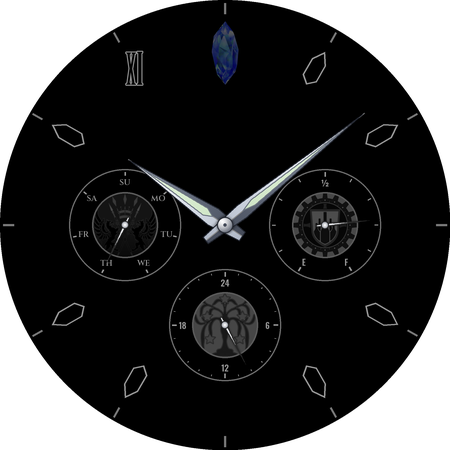
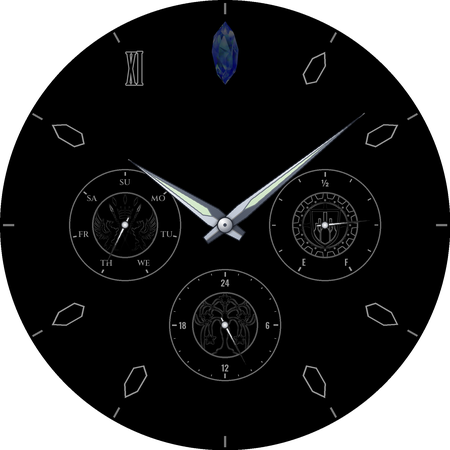
Watch face: add a Dark style option; line-art crests
- New user setting (Customize > Style): Classic or Dark. Dark is the
  outline 'dark chronograph' look as an everyday face, with an outlined
  date window; Classic keeps the realistic dial and glass layer.
- Outline styles draw the crests as colour-edge line art, so San d'Oria's
  black griffins on red are now readable (greyscale lost them).

Claude-Session: https://claude.ai/code/session_01DhcV9kAg7FMXufVfZQP7Ta

Changed region(s): [[0.6533, 0.4356, 0.8089, 0.5911], [0.4044, 0.6533, 0.5911, 0.8089], [0.2489, 0.4356, 0.3111, 0.4978]]

diff --git a/ffxi-watchface/tools/generate_assets.py b/ffxi-watchface/tools/generate_assets.py
@@ -250,12 +250,12 @@ def place_marker(img, deg):
     img.alpha_composite(layer)
 
 
-def place_crystal(img, ambient):
+def place_crystal(img, ambient, bright=1.0):
     """The big blue crystal at 12, from tools/emblems/crystal.png (background already cut out)."""
     cr = load_crystal(s(CRYSTAL_R[1] - CRYSTAL_R[0]))
     if ambient:   # dim it so always-on stays mostly dark
         r, g, b, a = cr.split()
-        cr = Image.merge('RGBA', [ch.point(lambda v: int(v * 0.35)) for ch in (r, g, b)] + [a])
+        cr = Image.merge('RGBA', [ch.point(lambda v: int(v * 0.6 * bright)) for ch in (r, g, b)] + [a])
     layer = Image.new('RGBA', img.size, (0, 0, 0, 0))
     layer.paste(cr, (round(C - cr.width / 2), round(C - s(CRYSTAL_R[1]))))
     if not ambient:
@@ -272,12 +272,22 @@ def sub_centers():
     }
 
 
-def draw_emblem(img, key, cx, cy, ambient):
+def emblem_lines(em, bright=1.0):
+    """Colour-edge line art of a crest (works where greyscale fails, e.g. black griffins on red)."""
+    size = em.size
+    a = np.asarray(em.resize((256, 256), Image.LANCZOS).filter(ImageFilter.GaussianBlur(1.2))).astype(float)
+    gy = np.abs(np.diff(a, axis=0, prepend=a[:1])).sum(-1)
+    gx = np.abs(np.diff(a, axis=1, prepend=a[:, :1])).sum(-1)
+    e = np.clip((gx + gy - 40) * 1.6, 0, 210) * bright
+    return Image.fromarray(e.astype(np.uint8)).resize(size, Image.LANCZOS).convert('RGB')
+
+
+def draw_emblem(img, key, cx, cy, ambient, bright=1.0):
     """Nation crest in a round medallion at the sub-dial centre."""
     r = s(EMBLEM_R)
     em = Image.open(os.path.join(EMBLEMS, key + '.png')).convert('RGB').resize((2 * r, 2 * r), Image.LANCZOS)
-    if ambient:   # dim greyscale so always-on stays mostly dark
-        em = em.convert('L').point(lambda v: int(v * 0.3)).convert('RGB')
+    if ambient:   # engraved line art: readable on black and keeps few pixels lit
+        em = emblem_lines(em, bright)
     img.paste(em, (int(cx - r), int(cy - r)), circle_mask((2 * r, 2 * r), r, r, r))
     if ambient:
         ImageDraw.Draw(img).ellipse([cx - r, cy - r, cx + r, cy + r], outline=(90, 90, 90), width=round(s(1.4)))
@@ -287,7 +297,7 @@ def draw_emblem(img, key, cx, cy, ambient):
     metal_ring(img, cx, cy, r + s(1.8), r - s(0.2), (120, 84, 24), (255, 230, 150))
 
 
-def draw_subdial(img, key, ambient=False):
+def draw_subdial(img, key, ambient=False, bright=1.0):
     cx, cy = (s(v) for v in sub_centers()[key])
     R = s(SUB_R)
     d = ImageDraw.Draw(img)
@@ -305,7 +315,7 @@ def draw_subdial(img, key, ambient=False):
         metal_ring(img, cx, cy, R + s(2.4), R, (70, 76, 88), (238, 242, 248), recessed=True)
     else:
         d.ellipse([cx - R, cy - R, cx + R, cy + R], outline=(110, 110, 110), width=round(s(1.2)))
-    draw_emblem(img, key, cx, cy, ambient)
+    draw_emblem(img, key, cx, cy, ambient, bright)
     d = ImageDraw.Draw(img)
 
     small = font(FONT_LABEL, 8)
@@ -349,7 +359,9 @@ def sunburst(size):
     return Image.fromarray(out.astype(np.uint8), 'RGB').convert('RGBA')
 
 
-def make_dial(ambient=False):
+def make_dial(ambient=False, bright=0.6):
+    """ambient=False: classic dial. ambient=True: outline dial; bright=1 is the
+    Dark style (active), bright=0.6 the always-on version of both styles."""
     size = (s(N), s(N))
     if ambient:
         img = Image.new('RGBA', size, (0, 0, 0, 255))
@@ -381,7 +393,7 @@ def make_dial(ambient=False):
         glow = Image.new('RGBA', size, (0, 0, 0, 0))
         ImageDraw.Draw(glow).ellipse([C - s(24), C - s(208), C + s(24), C - s(136)], fill=(60, 110, 255, 150))
         img.alpha_composite(glow.filter(ImageFilter.GaussianBlur(s(9))))
-    place_crystal(img, ambient)
+    place_crystal(img, ambient, bright)
     d = ImageDraw.Draw(img)
 
     pos = polar(s(180), 330)
@@ -396,9 +408,14 @@ def make_dial(ambient=False):
         text_c(d, (C, C - s(85)), 'CHRONOGRAPH', font(FONT_LABEL, 6.5), (170, 178, 192))
 
     for key in NATIONS:
-        draw_subdial(img, key, ambient)
+        draw_subdial(img, key, ambient, bright)
 
     # date window frame (number drawn live by the watch face)
+    if ambient and bright >= 1:
+        x, y = s(DATE_POS[0]), s(DATE_POS[1])
+        w, h = s(DATE_SIZE[0]), s(DATE_SIZE[1])
+        ImageDraw.Draw(img).rounded_rectangle([x - w / 2, y - h / 2, x + w / 2, y + h / 2], radius=s(3),
+                                              outline=(150, 150, 150), width=round(s(1.2)))
     if not ambient:
         x, y = s(DATE_POS[0]), s(DATE_POS[1])
         w, h = s(DATE_SIZE[0]), s(DATE_SIZE[1])
@@ -559,20 +576,21 @@ def place(canvas, hand, name, cx, cy, deg):
     canvas.alpha_composite(layer.rotate(-deg, center=(s(cx), s(cy)), resample=Image.BICUBIC))
 
 
-def preview(dial_hi, hands_hi, cap_hi, glass_hi, hh=10, mm=8, ss=32, dow=5, day=29, batt=78, ambient=False):
+def preview(dial_hi, hands_hi, cap_hi, glass_hi, hh=10, mm=8, ss=32, dow=5, day=29, batt=78, ambient=False, dark=False):
     img = dial_hi.copy()
     sub = hands_hi['hand_sub']
     centers = sub_centers()
     place(img, sub, 'hand_sub', *centers['sandoria'], (dow - 1) * 360 / 7)
     place(img, sub, 'hand_sub', *centers['bastok'], -150 + batt * 3)
     place(img, sub, 'hand_sub', *centers['windurst'], (hh + mm / 60) * 15)
-    if not ambient:
+    if not ambient or dark:
         d = ImageDraw.Draw(img)
-        text_c(d, (s(DATE_POS[0]), s(DATE_POS[1])), str(day), font(FONT_SERIF, 15), (20, 20, 20))
+        text_c(d, (s(DATE_POS[0]), s(DATE_POS[1])), str(day), font(FONT_SERIF, 15),
+               (190, 190, 190) if dark else (20, 20, 20))
     place(img, hands_hi['hand_hour'], 'hand_hour', 225, 225, (hh % 12 + mm / 60) * 30)
     place(img, hands_hi['hand_minute'], 'hand_minute', 225, 225, mm * 6 + ss / 10)
     img.alpha_composite(cap_hi, (round(C - cap_hi.width / 2), round(C - cap_hi.height / 2)))
-    if not ambient:
+    if not ambient and not dark:
         img.alpha_composite(glass_hi)
     return finish(img)
 
@@ -581,8 +599,10 @@ def main():
     os.makedirs(OUT, exist_ok=True)
     dial_hi = make_dial()
     amb_hi = make_dial(ambient=True)
+    dark_hi = make_dial(ambient=True, bright=1.0)
     finish(dial_hi).save(os.path.join(OUT, 'dial.png'))
     finish(amb_hi).save(os.path.join(OUT, 'dial_ambient.png'))
+    finish(dark_hi).save(os.path.join(OUT, 'dial_dark.png'))
     hands_hi = {}
     for name, (build, *_rest) in HANDS.items():
         hands_hi[name] = build()
@@ -598,6 +618,8 @@ def main():
     os.makedirs(docs, exist_ok=True)
     active.save(os.path.join(docs, 'preview_active.png'))
     preview(amb_hi, hands_hi, cap_hi, glass_hi, ambient=True).save(os.path.join(docs, 'preview_ambient.png'))
+    dark = preview(dark_hi, hands_hi, cap_hi, glass_hi, ambient=True, dark=True)
+    dark.save(os.path.join(docs, 'preview_dark.png'))
     print('assets written to', os.path.abspath(OUT))
 
 

diff --git a/ffxi-watchface/README.md b/ffxi-watchface/README.md
@@ -4,9 +4,12 @@ A Pixel Watch / Wear OS watch face inspired by the Seiko × FINAL FANTASY XI
 "WE ARE VANA'DIEL" 20th-anniversary chronograph. It's built with Google's
 **Watch Face Format** (WFF), so it's an XML-and-images package with no app code.
 
-| Active | Always-on |
-|---|---|
-| ![active](docs/preview_active.png) | ![ambient](docs/preview_ambient.png) |
+| Classic | Dark | Always-on |
+|---|---|---|
+| ![classic](docs/preview_active.png) | ![dark](docs/preview_dark.png) | ![ambient](docs/preview_ambient.png) |
+
+Switch styles on the watch: long-press the face, tap **Customize**, then **Style** (Classic or Dark).
+Dark is the minimalist outline look, with the crests drawn as line art.
 
 ## Design (after the Seiko piece)
 
@@ -18,7 +21,7 @@ A Pixel Watch / Wear OS watch face inspired by the Seiko × FINAL FANTASY XI
 | Three sub-dials styled on the three nations' banners (crest medallion in the centre) | **San d'Oria** (red, 9 o'clock): day of week<br>**Bastok** (blue, 3 o'clock): battery E→F<br>**Windurst** (green, 6 o'clock): 24-hour hand |
 | Date window | Live date at 4:30 |
 
-There's no seconds hand, by choice. Always-on mode switches to a dimmed, outline-only dial.
+There's no seconds hand, by choice. Always-on mode uses a dimmed version of the Dark style.
 
 ## Install from your phone (no computer)
 
